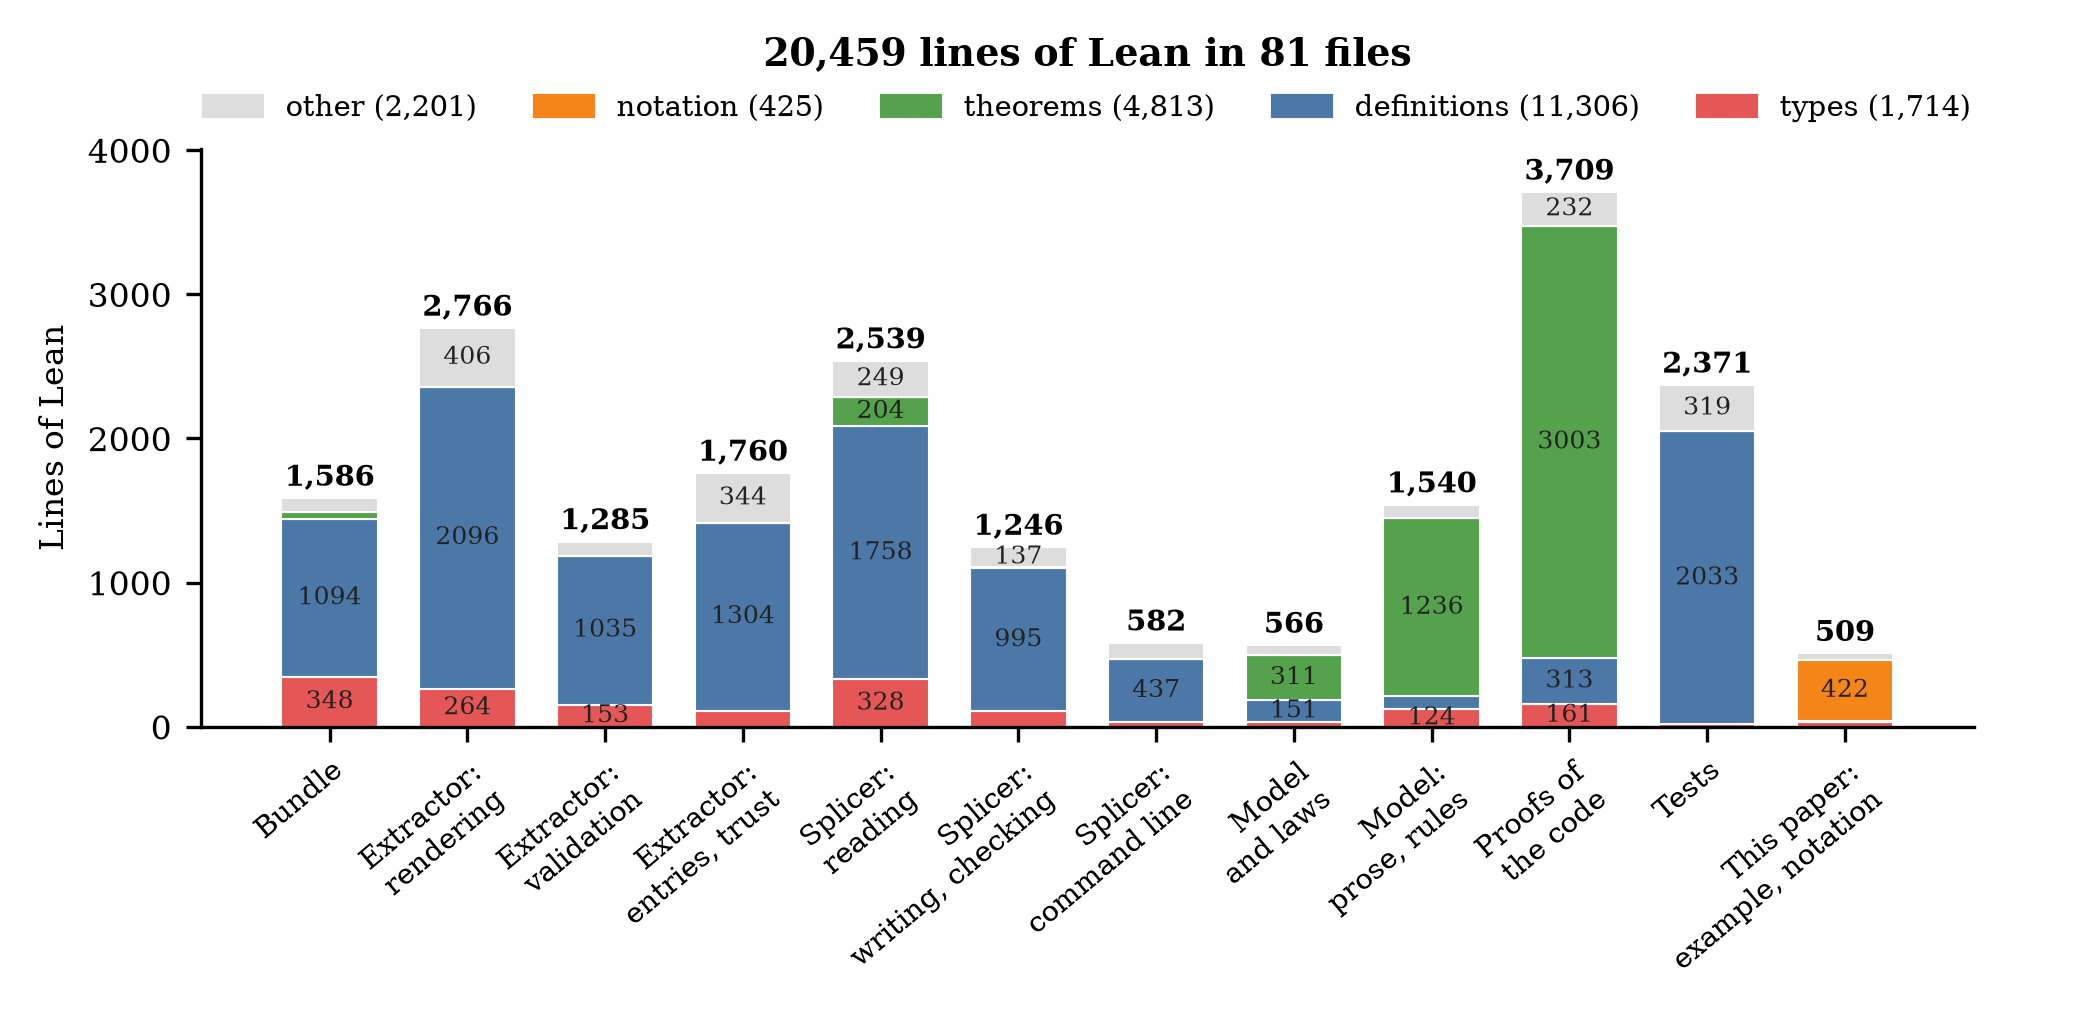
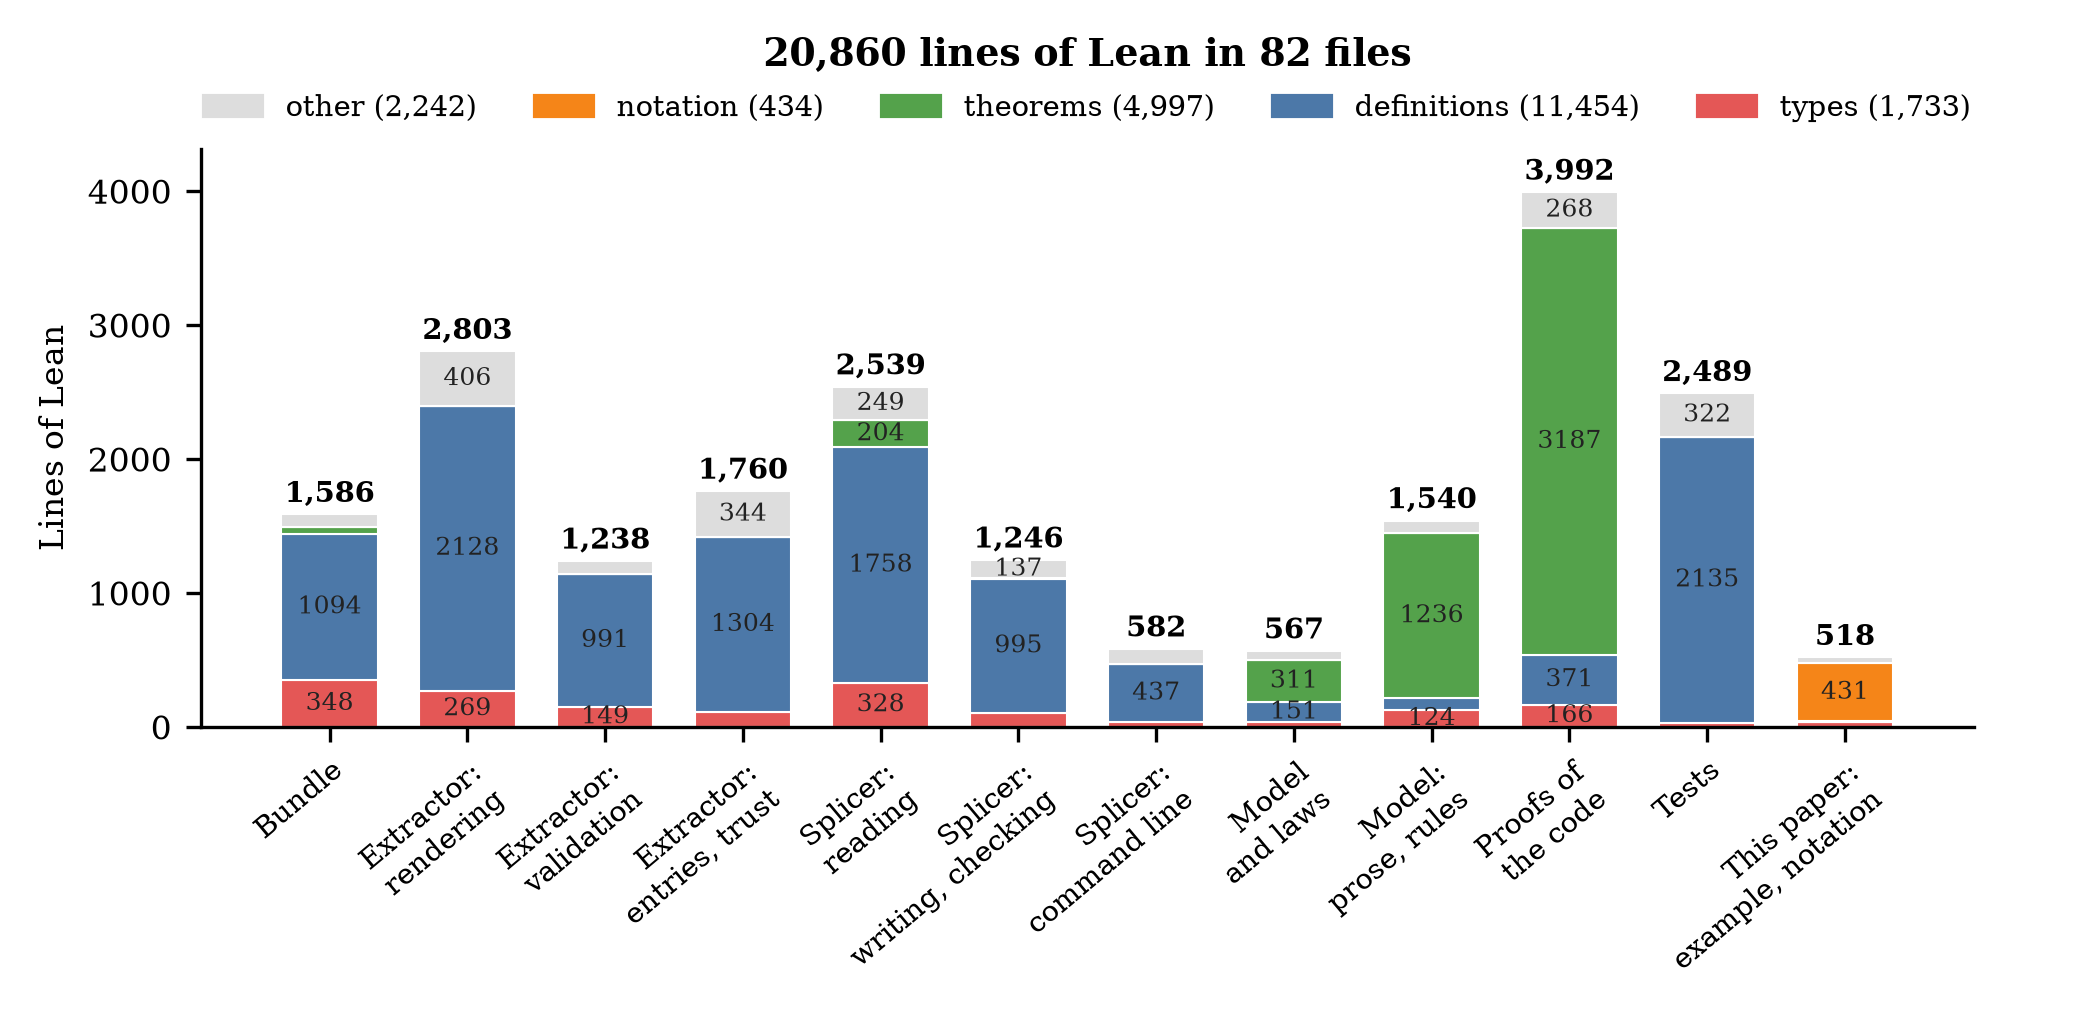
Chains (A3): the rule only narrows, and the pun, proved (#89)
Phase A3 of docs/coercion-chains.md (route A, #87):

- The specification `Reads` takes a flag `free`, with which a coercion is
  applied whatever the chain: `ExpFree` is the unrestricted grammar, of
  chains of any length. `Exp` is the parser's, unchanged.
- SpliceModel.ReadBackChains: `Exp.free`, every reading in the parser's
  grammar is one in the unrestricted grammar; and the counterexample under a
  total toy algebra: the unrestricted grammar reads `g ( x )` as g[x] and as
  h[x] (`Pun.pun_free`), the parser's not as g[x] (`Pun.pun_rule`, through
  `Pun.only_h`).
- The paper's §9 states the three theorems and what keeps the pun out (the
  renderer deciding with `Chain.allows`); DESIGN §18.5 says the grammar holds
  every rendering by construction, chains included; the development chart
  places the new module.

914 theorems on standard axioms; about paper check clean; lint and splice
tests pass.

diff --git a/about/imprimatur-paper.tex b/about/imprimatur-paper.tex
@@ -1596,6 +1596,39 @@ Wiedijk's property, of the formula:
 \LeanProse{Let $\mathcal{S} \in \texttt{Sorts}$, $G \in \texttt{Grammar}$, $\mathit{ts} \in \mathsf{Array}(\mathit{String})$, $s \in \mathit{String}$ and $\mathit{ex}, \mathit{rd} \in \texttt{Reading}$. Assume $\mathsf{readings}_{\mathcal{S}}(G, \mathit{ts}, s) = [\mathit{rd}]$, $\mathsf{flagged}_{\mathcal{S}}(G, \mathit{ts}, s) = \mathsf{false}$ and $\mathsf{matches}(\mathit{ex}, \mathit{rd}) = \mathsf{true}$. Then (1)~$\exists \sigma,\ \mathit{ts}[0, |\mathit{ts}|) \rightsquigarrow^{G}_{\mathcal{S}}(s, 0, \mathsf{none}, \mathsf{top}_{G})\ \mathit{rd} : \sigma$ and (2)~$\forall \mathit{rd}' : \texttt{Reading},\ \forall \sigma : \mathit{String},\ \mathit{ts}[0, |\mathit{ts}|) \rightsquigarrow^{G}_{\mathcal{S}}(s, 0, \mathsf{none}, \mathsf{top}_{G})\ \mathit{rd}' : \sigma \implies \mathit{ex} \succcurlyeq \mathit{rd}'$.}
 \end{leantheorem}
 
+The grammar is the renderer's: a chain of hidden coercions stacks no two
+of the same argument sort. Lean's types allow longer chains, and the
+grammar with them ($\rightsquigarrow^{G,\infty}$) has every reading this
+one has:
+
+\begin{leantheorem}[sum=1xNECGJZ4f]{The chain rule only narrows}{The chain rule only narrows}
+\label{thm:The-chain-rule-only-narrows}
+\LeanProse{Let $\mathcal{S} \in \texttt{Sorts}$, $G \in \texttt{Grammar}$, $\mathit{ts} \in \mathsf{Array}(\mathit{String})$, $s \in \mathit{String}$, $\mathit{prec} \in \mathbb{N}$, $\mathit{excl} \in \mathsf{Option}(\mathbb{N})$, $\mathit{ch} \in \texttt{Chain}$, $i, j \in \mathbb{N}$, $\mathit{rd} \in \texttt{Reading}$ and $\sigma \in \mathit{String}$. Assume $\mathit{ts}[i, j) \rightsquigarrow^{G}_{\mathcal{S}}(s, \mathit{prec}, \mathit{excl}, \mathit{ch})\ \mathit{rd} : \sigma$. Then $\mathit{ts}[i, j) \rightsquigarrow^{G,\infty}_{\mathcal{S}}(s, \mathit{prec}, \mathit{excl}, \mathit{ch})\ \mathit{rd} : \sigma$.}
+\end{leantheorem}
+
+\noindent but more besides, which can hide an ambiguity. With
+\texttt{Option.some} hidden, a function $g$ of an
+$\mathsf{Option}(\mathsf{Option}(\mathsf{Option}(\mathbb{N})))$ applied
+to $x : \mathbb{N}$, and an $h$ that prints as $g$, the unrestricted grammar
+reads \texttt{g ( x )} two ways, the renderer's grammar one:
+
+\begin{leantheorem}[sum=zBIW1SK1nz]{Unbounded chains make a pun}{Unbounded chains make a pun}
+\label{thm:Unbounded-chains-make-a-pun}
+\LeanProse{(1)~$\texttt{g ( x )}[0, 4) \rightsquigarrow^{G_{\mathsf{pun}},\infty}_{\mathcal{S}_{\mathsf{toy}}}(\text{``Prop''}, 0, \mathsf{none}, \mathsf{top}_{G_{\mathsf{pun}}})\ g[x] : \text{``Prop''}$ and (2)~$\texttt{g ( x )}[0, 4) \rightsquigarrow^{G_{\mathsf{pun}},\infty}_{\mathcal{S}_{\mathsf{toy}}}(\text{``Prop''}, 0, \mathsf{none}, \mathsf{top}_{G_{\mathsf{pun}}})\ h[x] : \text{``Prop''}$.}
+\end{leantheorem}
+
+\begin{leantheorem}[sum=FEtW4GToJM]{The chain rule leaves the pun out}{The chain rule leaves the pun out}
+\label{thm:The-chain-rule-leaves-the-pun-out}
+\LeanProse{Let $\sigma \in \mathit{String}$. Then $\neg \texttt{g ( x )}[0, 4) \rightsquigarrow^{G_{\mathsf{pun}}}_{\mathcal{S}_{\mathsf{toy}}}(\text{``Prop''}, 0, \mathsf{none}, \mathsf{top}_{G_{\mathsf{pun}}})\ g[x] : \sigma$.}
+\end{leantheorem}
+
+\noindent What keeps the pun out of the paper is that the renderer obeys
+the rule: it decides whether to hide a coercion with the parser's own
+\texttt{Chain.allows}, and shows one the rule would not read, so
+$g(\mathit{some}(\mathit{some}(\mathit{some}\ x)))$ never prints as
+$g(x)$. That the grammar holds every rendering is trusted by construction,
+as the holes' precedences are.
+
 Both halves hold for any algebra of sorts, since the algebra only filters:
 what is proved is the search. What the validator records in the bundle is
 this check, formula by formula. Section~\ref{sec:views} left two things
@@ -1697,7 +1730,7 @@ A variable with a prime or a subscript ($M'$, $M_{1}$) ranges over the same type
 \end{leanconventions}
 
 \begingroup\small
-\begin{leannotation}[sum=5fSOEa_diF, dflt=8-Hm2sTmtT]{Notation}{The notation of the paper}
+\begin{leannotation}[sum=gZ3eJ8SzmK, dflt=yWHdXLp-VE]{Notation}{The notation of the paper}
 \begin{longtable}{@{}l@{\quad}l@{\quad}p{.45\linewidth}@{}}
 \multicolumn{3}{@{}l}{\textit{Imprimatur}}\\
 $\texttt{Bundle}(\sigma, \pi)$ & \texttt{Imprimatur.Bundle} & \leanslot{Imprimatur.Bundle/0}{A bundle: an entry for each key a document cites}\\
@@ -1870,6 +1903,7 @@ $\mathsf{trimAnd}(\mathit{ls})$ & \texttt{trimAnd} & \leanslot{Imprimatur.Layout
 $\mathsf{unbreak}_{\mathit{ps}}(o, \mathit{ls})$ & \texttt{unbreak} & \leanslot{Imprimatur.Layout.unbreak/0}{A premise less its \LeanCodeInline{ \textbackslash{}\textbackslash{}}, then the rest}\\
 $\mathsf{withPremises}(\mathit{mark}, \mathit{label}, o)$ & \texttt{withPremises} & \leanslot{Imprimatur.Layout.withPremises/0}{The rule, once its premises are read: its conclusion follows them}\\
 $\mathit{TeX}$ & \texttt{Imprimatur.TeX} & \leanslot{Imprimatur.TeX/0}{TeX source}\\
+$\texttt{Chain}$ & \texttt{Imprimatur.Validate.Chain} & \leanslot{Imprimatur.Validate.Chain/0}{What a question knows of the chain of invisible coercions it is the argument of: the argument sorts of the coercions above it, and whether a cast (\LeanCodeInline{forgetful}) is above}\\
 $\mathsf{flagged}_{A}(g, \mathit{ts}, s)$ & \texttt{Imprimatur.Validate.Flags.any} & \leanslot{Imprimatur.Validate.Flags.any/0}{Whether the reading is not to be trusted: it gave up, dropped a reading, cut a question, or the grammar has a list that takes no token}\\
 $\texttt{Grammar}$ & \texttt{Imprimatur.Validate.Grammar} & \leanslot{Imprimatur.Validate.Grammar/0}{A compiled grammar}\\
 $\mathsf{top}_{g}$ & \texttt{Imprimatur.Validate.Grammar.chain0} & \leanslot{Imprimatur.Validate.Grammar.chain0/0}{The chain at a hole, in parentheses, in a group, or at the top: nothing above}\\
@@ -1899,6 +1933,7 @@ $\mathsf{List}(\alpha)$ & \texttt{List} & \leanslot{List/0}{Linked lists: ordere
 $a \mathbin{::} l$ & \texttt{List.cons} & \leanslot{List.cons/0}{The list whose first element is \LeanCodeInline{head}, where \LeanCodeInline{tail} is the rest of the list}\\
 $[]$ & \texttt{List.nil} & \leanslot{List.nil/0}{The empty list, usually written \LeanCodeInline{[]}}\\
 $l$ & \texttt{List.toArray} & \leanslot{List.toArray/0}{Converts a \LeanCodeInline{List α} into an \LeanCodeInline{Array α}}\\
+$\mathbb{N}$ & \texttt{Nat} & \leanslot{Nat/0}{The natural numbers, starting at zero}\\
 $a \notin l$ & \texttt{Not} & \leanslot{Not/0}{\LeanCodeInline{Not p}, or \LeanCodeInline{¬p}, is the negation of \LeanCodeInline{p}}\\
 $\mathsf{Option}(\alpha)$ & \texttt{Option} & \leanslot{Option/0}{Optional values, which are either \LeanCodeInline{some} around a value from the underlying type or \LeanCodeInline{none}}\\
 $o \mathbin{\mathsf{else}} t$ & \texttt{Option.getD} & \leanslot{Option.getD/0}{Gets an optional value, returning a given default on \LeanCodeInline{none}}\\
@@ -1946,11 +1981,17 @@ $\mathsf{unfaithful}_{k}(v)$ & \texttt{Diag.unfaithful} & \leanslot{SpliceModel.
 $\mathsf{untrusted}(k)$ & \texttt{Diag.untrusted} & \leanslot{SpliceModel.Diag.untrusted/0}{the key's proof is not trusted}\\
 $W \models d$ & \texttt{Doc.True} & \leanslot{SpliceModel.Doc.True/0}{A document is true of a world when each of its pieces is}\\
 $\mathit{ts}[i, j) \rightsquigarrow^{g}_{A}(s, p, \mathit{excl}, \mathit{ch})\ r : \sigma$ & \texttt{Exp} & \leanslot{SpliceModel.Exp/0}{\LeanCodeInline{ts[i:j]} reads as \LeanCodeInline{r}, of sort \LeanCodeInline{σ}, as an expression of sort \LeanCodeInline{s} at precedence \LeanCodeInline{p} not made by production \LeanCodeInline{excl}, through the coercions the chain \LeanCodeInline{ch} allows (DESIGN §18.4)}\\
+$\mathit{ts}[i, j) \rightsquigarrow^{g,\infty}_{A}(s, p, \mathit{excl}, \mathit{ch})\ r : \sigma$ & \texttt{ExpFree} & \leanslot{SpliceModel.ExpFree/0}{\LeanCodeInline{Exp} in the unrestricted grammar: through chains of coercions of any length, whatever the chain rule allows}\\
 $e \succcurlyeq r$ & \texttt{Matches} & \leanslot{SpliceModel.Matches/0}{A reading matches the expected one: \LeanCodeInline{any} matches any reading, and a node matches a node of the same name whose children match, pairwise}\\
 $W \models p$ & \texttt{Piece.True} & \leanslot{SpliceModel.Piece.True/0}{What a piece claims of a world}\\
 $\mathsf{block}_{k}^{v}(\mathit{body})$ & \texttt{Piece.block} & \leanslot{SpliceModel.Piece.block/0}{a generated block: a key, shown in a view}\\
 $\mathsf{checked}_{k}(h)$ & \texttt{Piece.check} & \leanslot{SpliceModel.Piece.check/0}{a check that hand-written prose matches the statement with this hash}\\
 $\mathsf{text}(s)$ & \texttt{Piece.text} & \leanslot{SpliceModel.Piece.text/0}{hand-written text}\\
+$G_{\mathsf{pun}}$ & \texttt{Pun.G} & \leanslot{SpliceModel.Pun.G/0}{The grammar of the counterexample, compiled}\\
+$\texttt{g ( x )}$ & \texttt{Pun.T} & \leanslot{SpliceModel.Pun.T/0}{The text \LeanCodeInline{g ( x )}}\\
+$g[x]$ & \texttt{Pun.gx} & \leanslot{SpliceModel.Pun.gx/0}{The reading \LeanCodeInline{g[x]}}\\
+$h[x]$ & \texttt{Pun.hx} & \leanslot{SpliceModel.Pun.hx/0}{The reading \LeanCodeInline{h[x]}}\\
+$\mathcal{S}_{\mathsf{toy}}$ & \texttt{Pun.toy} & \leanslot{SpliceModel.Pun.toy/0}{A toy algebra of sorts, total and small: \LeanCodeInline{?α} is the one type variable, and \LeanCodeInline{Option(?α)} the one sort that mentions it}\\
 $\mathsf{gen}(s)$ & \texttt{Seg.gen} & \leanslot{SpliceModel.Seg.gen/0}{text generated from Lean}\\
 $\mathsf{slot}_{i}(t)$ & \texttt{Seg.slot} & \leanslot{SpliceModel.Seg.slot/0}{a slot, whose text the authors own}\\
 $\mathit{SlotId}$ & \texttt{SlotId} & \leanslot{SpliceModel.SlotId/0}{The identifiers of slots: a slot's id, and which occurrence of that id in its body it is, from 0}\\

diff --git a/about/analytics/chart.py b/about/analytics/chart.py
@@ -120,6 +120,7 @@ FILES: list[tuple[str, list[str]]] = [
         "splice/SpliceModel/ReadBackSound.lean",
         "splice/SpliceModel/ReadBackComplete.lean",
         "splice/SpliceModel/Pruning.lean",
+        "splice/SpliceModel/ReadBackChains.lean",
         "splice/SpliceModel/Validator.lean",
     ]),
     ("Tests", [

diff --git a/docs/coercion-chains.md b/docs/coercion-chains.md
@@ -164,14 +164,18 @@ set by `Grammar.count`) is kept for tests, in place of the rule.
 
 ### What is proved
 
-- `Reads.mono_rule`: a more permissive rule has more readings. The
-  unrestricted grammar is `Reads` under the rule that allows every
-  chain, so `Reads (std)` is contained in it, and soundness carries over.
-- `pollack`, generic in `R`, and for `R = std` as now.
-- **The counterexample**, under a total toy algebra in `SpliceModel`:
-  the unrestricted grammar reads `g ( x )` as both `g[x]` and `h[x]`, and
-  `Reads (std)` only as `h[x]`. This records in Lean why the target is the
-  renderer's grammar.
+`SpliceModel.ReadBackChains`:
+
+- `Exp.free`: the rule only narrows. The unrestricted grammar is `Reads`
+  with `free` set, which applies a coercion whatever the chain (`ExpFree`);
+  every reading in the parser's grammar is a reading there.
+- `pollack`, as before, for the parser's grammar, which is the
+  renderer's.
+- **The counterexample**, under a total toy algebra (`Pun.toy`): the
+  unrestricted grammar reads `g ( x )` as both `g[x]` and `h[x]`
+  (`Pun.pun_free`), and the parser's grammar not as `g[x]` (`Pun.pun_rule`;
+  every reading it has is made by `h`, `Pun.only_h`). This records in Lean
+  why the target is the renderer's grammar.
 
 What stays trusted is unchanged in kind. "The grammar follows the
 renderer" now covers coercion chains, and their structure holds by
@@ -204,7 +208,7 @@ The exclusion row gets a fixture in phase A2.
 | A0 | **Measure.** The goldens, the fixtures and the papers under the rule: what renders differently, and the cost. | Goldens byte-identical (153 extractor tests); the papers below. |
 | A1 | **The shared rule** in the parser and the specification; B0's depth cap and growth budget removed; the proofs rebuilt. | Done. |
 | A2 | **The renderer obeys it**; `ChainLaws.lean` tests that the parser reads what a printer obeying the rule prints, for random terms of the counterexamples' shapes, and that the counterexample's two terms print apart. | Done. |
-| A3 | **In Lean:** `Reads.mono_rule`, the counterexample under a toy algebra, `pollack` restated for the renderer's grammar; the paper's §9 and the trusted base. | Open. |
+| A3 | **In Lean:** the rule only narrows, and the counterexample under a toy algebra; the paper's §9 and the trusted base. | Done: `SpliceModel.ReadBackChains`. `Reads` takes a flag `free`, with which a coercion is applied whatever the chain: `ExpFree`, the unrestricted grammar. `Exp.free`: every reading in the parser's grammar is one in it. `Pun.pun_free`: under a toy algebra it reads `g ( x )` as `g[x]` and as `h[x]`; `Pun.pun_rule`: the parser's grammar does not read it as `g[x]`. `pollack` is unchanged: it was about the parser's grammar already, which route A makes the renderer's. |
 
 ### Cost and risk
 

diff --git a/DESIGN.md b/DESIGN.md
@@ -1360,7 +1360,10 @@ which gathers what a view says (binders, `isProp`, notation matching,
 proved instead: the prose and rules layouts, the emitter's parentheses and
 the holes' precedences are the shared module `Imprimatur.Layout`, the
 parser that reads formulas back is the shared module `Imprimatur.ReadBack`,
-and the paper's theorems are about them);
+and the paper's theorems are about them; that the grammar holds every
+rendering, coercion chains included, holds by construction, the renderer
+deciding with the parser's own functions, `Doc.holeNeeds` and
+`Chain.allows`);
 the splicer's shell, which reads files, the configuration and the
 bundle and writes what `apply` returns; the scanner's reading of TeX, which
 the theorems take as the specification of where markup is; collision

diff --git a/CHANGELOG.md b/CHANGELOG.md
@@ -5,6 +5,11 @@ All notable changes to imprimatur are recorded here. Versions follow
 
 ## Unreleased
 
+- The paper's model proves what the chain rule costs and why it is there
+  (`SpliceModel.ReadBackChains`): every reading in the parser's grammar is
+  one in the grammar of chains of any length, and the counterexample of
+  docs/coercion-chains.md is a theorem, under a toy algebra: the unbounded
+  grammar reads `g ( x )` two ways, the parser's grammar one.
 - The renderer and the reader of formulas share one rule for chains of
   hidden coercions (docs/coercion-chains.md, route A): a chain never
   stacks two coercions with the same argument sort, nor a cast below a
